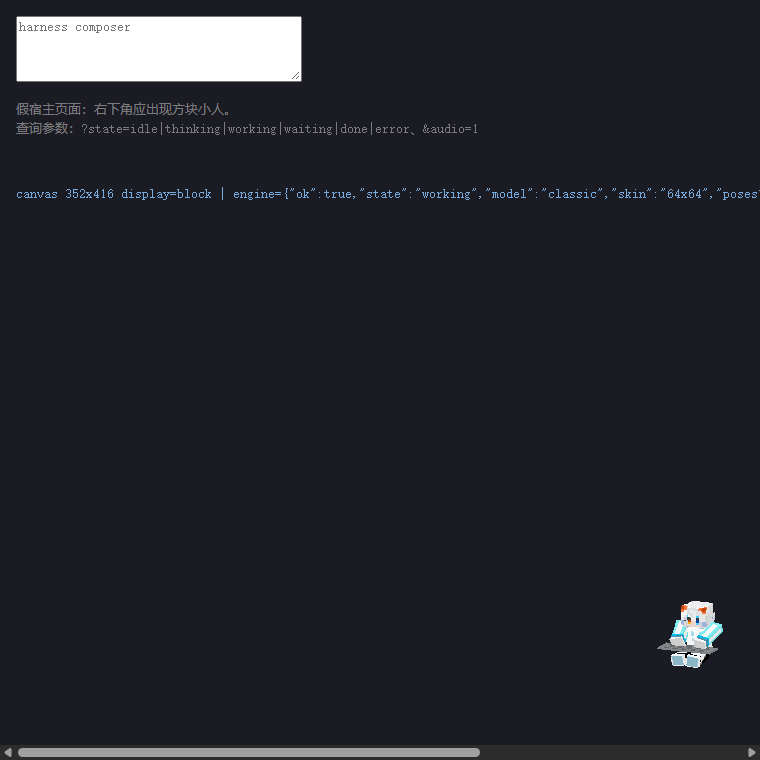
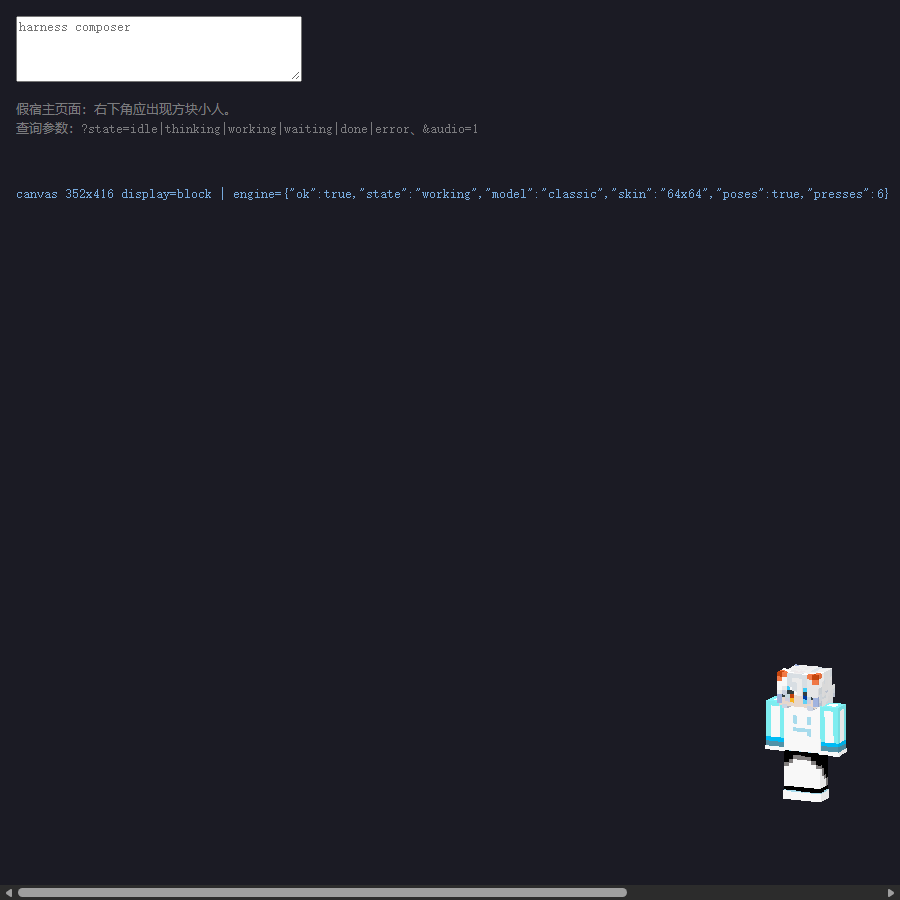
feat(m4): 默认尺寸放大 + 头部跟随限定 idle + 待机手势期间角度回正
- 默认尺寸：--dshw-base 的 clamp(122px, min(250px, min(vw,vh)*0.28), 625px)
  → clamp(160px, min(360px, min(vw,vh)*0.40), 900px)；900px 窗口下容器
  213→304px（用户反馈「太保守」）。缩放档位 0.6~2.5 不变
- 头部跟随：只有 idle 且没有待机手势时生效，用 trackW（τ=0.12s）乘在水平/垂直
  角上；进入手势或别的状态时平滑回正，结束/回 idle 后平滑恢复；光标离开画布
  立即归零（否则指针一离开会残留偏角）
- test-anim：跟随采样前先跑 20 帧让权重收敛；新增 2 条断言（手势中 trackW=0、
  手势结束后角度恢复）
- 回归：test-quat/test-state/test-m35 全过，render-m0 仍 25928/[108,66,244,333]

diff --git a/assets/whale-widget.js b/assets/whale-widget.js
@@ -1480,6 +1480,8 @@ class PetAnimator {
   constructor(now = 0, { seed = Math.random() } = {}) {
     this.breath = 0
     this.blinkPhase = seed * Math.PI * 2
+    /** 头部跟随权重：只有 idle 且无待机手势时趋向 1，其余情况平滑收回 0。 */
+    this.trackW = 0
     /** 打字按压状态，照 MDP 的 `Hand { until, key }`：until 之前该手压在键位上。 */
     this.hands = [
       { until: 0, key: null },
@@ -1533,7 +1535,7 @@ class PetAnimator {
     this._breath(p, s, now, dt)
     this.eyelid = this._blink(s, now)
     p.eyelid = this.eyelid
-    this._trackHead(p, ctx, s)
+    this._trackHead(p, ctx, s, now, dt)
     if (p.sit > 0.001) this._typing(p, ctx, s, now, dt)
     else this._resetTyping()
     // 状态专属动画（thinking 挠头 / waiting 跳两下 / done 举手后鼓掌）。
@@ -1585,17 +1587,33 @@ class PetAnimator {
     return 1 - blinkClosure(now * BLINK_RATE + this.blinkPhase)
   }
 
-  /** 头部跟随：把光标位置反算成朝向，再乘父级逆矩阵进头部局部空间。 */
-  _trackHead(p, ctx, s) {
-    if (!s.track || !ctx.cursor) return
+  /** 头部跟随：把光标位置反算成朝向，再乘父级逆矩阵进头部局部空间。
+   *
+   *  跟随是**有条件的**：只有 `idle` 且没有待机手势时才发生（plan.md §6.3 里
+   *  thinking 的「弱跟随」也不要——状态姿态要稳定可辨）。进入手势或别的状态时
+   *  用 `trackW` 把角度平滑收回到中立，手势 / 状态结束后再平滑恢复，
+   *  所以不是「一进手势就瞬跳回正」。 */
+  _trackHead(p, ctx, s, now, dt) {
+    const d = Math.max(dt || 0, 0)
+    // 光标不在画布上：直接回中立（这条不需要过渡，否则指针一离开就残留偏角）
+    if (!ctx.cursor) { this.trackW = 0; return }
+    // ctx.state 缺省时按 idle 处理（老调用点不传状态，语义上就是"默认状态"）
+    const idle = ctx.state == null || ctx.state === 'idle'
+    const want = (s.track && idle && !this.gestureBusy) ? 1 : 0
+    this.trackW += (want - this.trackW) * (1 - Math.exp(-d / 0.12))
+    if (this.trackW < 1e-3) this.trackW = 0
+    if (this.trackW === 0) return
+
     const W = ctx.width
     const H = ctx.height
+    // 光标离开画布时按画面中上区域算目标，保证 trackW 衰减期间角度是「收回中立」而不是乱指
+    const cur = ctx.cursor || { x: W / 2, y: H * 0.36 }
     const neck = transformPoint(torsoSpace(p), [0, 12, 0])
     const ahead = Q.rotate(VIEW, [0, 3, 0])
     const pt = project([neck[0] + ahead[0], neck[1] + ahead[1], neck[2] + ahead[2]], W, H)
 
-    const dx = (ctx.cursor.x - pt[0]) / Math.max(W * 0.8, 200)
-    const dy = (ctx.cursor.y - pt[1]) / Math.max(H * 0.65, 180)
+    const dx = (cur.x - pt[0]) / Math.max(W * 0.8, 200)
+    const dy = (cur.y - pt[1]) / Math.max(H * 0.65, 180)
     const x = clamp(
       Math.atan(dx * 0.3 * s.sensX),
       -s.rangeX * DEG,
@@ -1606,8 +1624,9 @@ class PetAnimator {
       -s.rangeY * DEG,
       s.rangeY * DEG,
     )
-    const horizontal = clamp(x, -Math.PI / 2, Math.PI / 2)
-    const vertical = clamp(y, -85 * DEG, 85 * DEG)
+    // 权重乘在角度上：trackW=0 时目标是严格中立，与状态姿态的 head_rotation 一致
+    const horizontal = clamp(x, -Math.PI / 2, Math.PI / 2) * this.trackW
+    const vertical = clamp(y, -85 * DEG, 85 * DEG) * this.trackW
 
     const desired = Q.multiply(
       Q.multiply(
@@ -2765,7 +2784,7 @@ function frameSvgClean(code) {
 }
 
 var css = [
-  '.dshwv-root{position:fixed;right:0;bottom:0;--dshw-scale:1;--dshw-base:clamp(122px,calc(min(250px,min(100vw,100vh) * 0.28) * var(--dshw-scale)),625px);width:var(--dshw-base);height:var(--dshw-base);pointer-events:none;user-select:none;-webkit-user-select:none;z-index:9999;font-family:inherit;transition:left .16s ease,top .16s ease}',
+  '.dshwv-root{position:fixed;right:0;bottom:0;--dshw-scale:1;--dshw-base:clamp(160px,calc(min(360px,min(100vw,100vh) * 0.40) * var(--dshw-scale)),900px);width:var(--dshw-base);height:var(--dshw-base);pointer-events:none;user-select:none;-webkit-user-select:none;z-index:9999;font-family:inherit;transition:left .16s ease,top .16s ease}',
   // v634 移动端:去掉浏览器「点击高亮」方块——它画在可点元素的矩形包围盒上,
   // 泡泡的内联 SVG 形状尤其明显;同时禁掉 iOS 长按系统菜单/放大镜。
   // 只作用于挂件自身的 dshwv- 元素(该属性可继承,后代一并覆盖),不影响 DSH 页面自身的高亮。

diff --git a/assets/pet-anim.js b/assets/pet-anim.js
@@ -84,6 +84,8 @@ export class PetAnimator {
   constructor(now = 0, { seed = Math.random() } = {}) {
     this.breath = 0
     this.blinkPhase = seed * Math.PI * 2
+    /** 头部跟随权重：只有 idle 且无待机手势时趋向 1，其余情况平滑收回 0。 */
+    this.trackW = 0
     /** 打字按压状态，照 MDP 的 `Hand { until, key }`：until 之前该手压在键位上。 */
     this.hands = [
       { until: 0, key: null },
@@ -137,7 +139,7 @@ export class PetAnimator {
     this._breath(p, s, now, dt)
     this.eyelid = this._blink(s, now)
     p.eyelid = this.eyelid
-    this._trackHead(p, ctx, s)
+    this._trackHead(p, ctx, s, now, dt)
     if (p.sit > 0.001) this._typing(p, ctx, s, now, dt)
     else this._resetTyping()
     // 状态专属动画（thinking 挠头 / waiting 跳两下 / done 举手后鼓掌）。
@@ -189,17 +191,33 @@ export class PetAnimator {
     return 1 - blinkClosure(now * BLINK_RATE + this.blinkPhase)
   }
 
-  /** 头部跟随：把光标位置反算成朝向，再乘父级逆矩阵进头部局部空间。 */
-  _trackHead(p, ctx, s) {
-    if (!s.track || !ctx.cursor) return
+  /** 头部跟随：把光标位置反算成朝向，再乘父级逆矩阵进头部局部空间。
+   *
+   *  跟随是**有条件的**：只有 `idle` 且没有待机手势时才发生（plan.md §6.3 里
+   *  thinking 的「弱跟随」也不要——状态姿态要稳定可辨）。进入手势或别的状态时
+   *  用 `trackW` 把角度平滑收回到中立，手势 / 状态结束后再平滑恢复，
+   *  所以不是「一进手势就瞬跳回正」。 */
+  _trackHead(p, ctx, s, now, dt) {
+    const d = Math.max(dt || 0, 0)
+    // 光标不在画布上：直接回中立（这条不需要过渡，否则指针一离开就残留偏角）
+    if (!ctx.cursor) { this.trackW = 0; return }
+    // ctx.state 缺省时按 idle 处理（老调用点不传状态，语义上就是"默认状态"）
+    const idle = ctx.state == null || ctx.state === 'idle'
+    const want = (s.track && idle && !this.gestureBusy) ? 1 : 0
+    this.trackW += (want - this.trackW) * (1 - Math.exp(-d / 0.12))
+    if (this.trackW < 1e-3) this.trackW = 0
+    if (this.trackW === 0) return
+
     const W = ctx.width
     const H = ctx.height
+    // 光标离开画布时按画面中上区域算目标，保证 trackW 衰减期间角度是「收回中立」而不是乱指
+    const cur = ctx.cursor || { x: W / 2, y: H * 0.36 }
     const neck = transformPoint(torsoSpace(p), [0, 12, 0])
     const ahead = Q.rotate(VIEW, [0, 3, 0])
     const pt = project([neck[0] + ahead[0], neck[1] + ahead[1], neck[2] + ahead[2]], W, H)
 
-    const dx = (ctx.cursor.x - pt[0]) / Math.max(W * 0.8, 200)
-    const dy = (ctx.cursor.y - pt[1]) / Math.max(H * 0.65, 180)
+    const dx = (cur.x - pt[0]) / Math.max(W * 0.8, 200)
+    const dy = (cur.y - pt[1]) / Math.max(H * 0.65, 180)
     const x = clamp(
       Math.atan(dx * 0.3 * s.sensX),
       -s.rangeX * DEG,
@@ -210,8 +228,9 @@ export class PetAnimator {
       -s.rangeY * DEG,
       s.rangeY * DEG,
     )
-    const horizontal = clamp(x, -Math.PI / 2, Math.PI / 2)
-    const vertical = clamp(y, -85 * DEG, 85 * DEG)
+    // 权重乘在角度上：trackW=0 时目标是严格中立，与状态姿态的 head_rotation 一致
+    const horizontal = clamp(x, -Math.PI / 2, Math.PI / 2) * this.trackW
+    const vertical = clamp(y, -85 * DEG, 85 * DEG) * this.trackW
 
     const desired = Q.multiply(
       Q.multiply(
